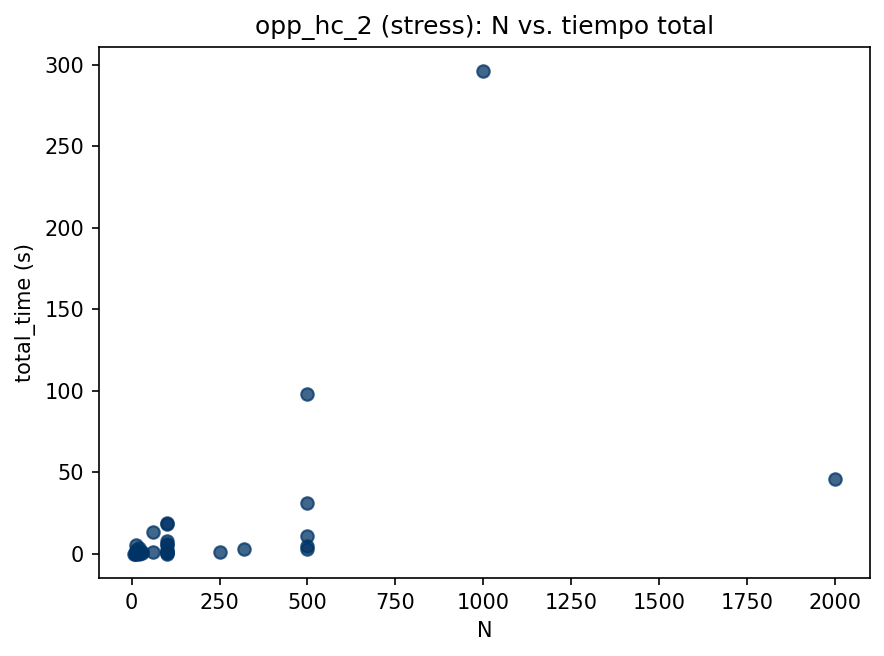
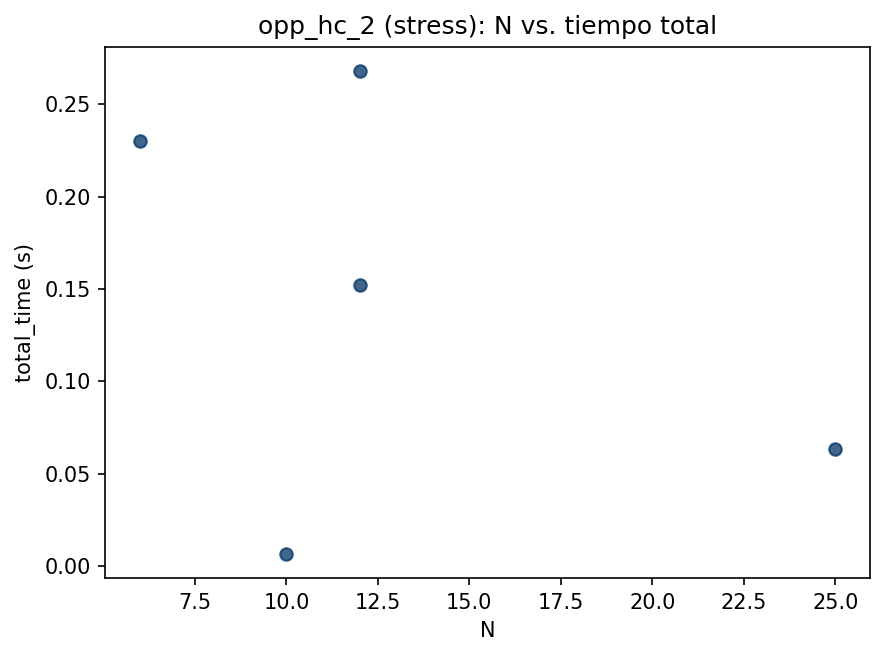
Restore

diff --git a/analysis/config.py b/analysis/config.py
@@ -62,5 +62,23 @@ CORRELATION_INDEPENDENTS = ["N", "V", "B", "C_v", "W_full", "W_ea_ta"]
 # later partial run, or a specific high-density stress run). Keyed by
 # (model_label, scenario) -> exact filename (relative to its output dir).
 LATEST_FILE_OVERRIDES = {
-    ("opp_v3", "stress"): "complete_output_v3_stress_tests.csv"
+    ("opp_v3", "stress"): "complete_output_v3_stress_tests.csv",
+    ("opp_aco", "stress"): "output_opp_aco_stress_tests_20260617_123001.csv",
+    # 2026-08-28: opp_v4's stress test files were renumbered/reshuffled at
+    # some point (the "Rename tests" commit) without a matching full stress
+    # re-run under the new numbering. The chronologically NEWER CSV
+    # (20260825_194316, 3 rows) tests scenario names
+    # (test_25_orders_per_batch_30_batches_25x25, etc.) that don't match ANY
+    # current tests/opp_v4/tests/stress/*.py file -- orphaned data from
+    # before the rename. This OLDER file's 8 test names match the current
+    # suite exactly (test_100_locations, test_infeasible_capacity, ...,
+    # test_10_orders_per_batch) -- pin to it explicitly rather than let
+    # _pick_csv's recency heuristic (correct in general, wrong here) choose
+    # the newer-but-stale one. Still only a partial answer: this file is
+    # itself from 2026-08-18 and hasn't been re-run since (the performance
+    # fix, the algorithm fixes from the 2026-08-27/28 code audit, etc.
+    # postdate it) -- a genuinely fresh, complete opp_v4 stress run is still
+    # pending (several of its 8 tests are known to take the full 25min
+    # timeout each, so budget hours, not minutes, for that run).
+    ("opp_v4", "stress"): "output_opp_v4_stress_tests_20260818_181050.csv",
 }

diff --git a/analysis/output/report.md b/analysis/output/report.md
@@ -9,7 +9,7 @@
 | opp_aco_3 | normal | 12 | 12 | 0 | 0 | 100.0 |
 | opp_aco_3 | stress | 20 | 14 | 1 | 5 | 70.0 |
 | opp_hc_2 | normal | 46 | 46 | 0 | 0 | 100.0 |
-| opp_hc_2 | stress | 43 | 32 | 11 | 0 | 74.4 |
+| opp_hc_2 | stress | 18 | 5 | 0 | 13 | 27.8 |
 | opp_hc_3 | normal | 6 | 6 | 0 | 0 | 100.0 |
 | opp_hc_3 | stress | 20 | 17 | 3 | 0 | 85.0 |
 | opp_v4 | normal | 46 | 45 | 1 | 0 | 97.8 |
@@ -26,7 +26,7 @@
 | opp_aco_3 | normal | 0.025555570920308385 | 0.04387347950663957 | 0.1223242282867431 | 12 |
 | opp_aco_3 | stress | 274.496099284717 | 288.75962323931503 | 1020.2660281658171 | 14 |
 | opp_hc_2 | normal | 0.008851419324460201 | 0.0043273053102638 | 0.0224010944366455 | 46 |
-| opp_hc_2 | stress | 18.320306666195393 | 54.18233231800621 | 296.41067695617676 | 32 |
+| opp_hc_2 | stress | 0.14395718574523922 | 0.10983766583068512 | 0.2681119441986084 | 5 |
 | opp_hc_3 | normal | 0.0038505395253499003 | 0.002514931435436244 | 0.0064420700073242 | 6 |
 | opp_hc_3 | stress | 4.956314185086419 | 6.819183207581754 | 22.079998254776 | 17 |
 | opp_v4 | normal | 2.048522546556261 | 5.831397336622343 | 26.211292028427124 | 45 |
@@ -71,7 +71,7 @@
 | scenario | mean_time_overhead_pct | n_matched | aware_model | baseline_model |
 | --- | --- | --- | --- | --- |
 | normal | -15.574779336779315 | 1 | opp_hc_3 | opp_hc_2 |
-| stress | 0.0463900730684248 | 16 | opp_hc_3 | opp_hc_2 |
+| stress | 883.7697290536222 | 4 | opp_hc_3 | opp_hc_2 |
 | normal | 99.5794968744288 | 1 | opp_aco_3 | opp_aco_2 |
 | stress | 512.7704991022023 | 14 | opp_aco_3 | opp_aco_2 |
 
@@ -83,7 +83,7 @@
 | --- | --- | --- | --- | --- | --- | --- | --- |
 | opp_aco_2 | 0.535 | 0.8314 | 0.4722 | 0.5915 | 0.5276 | -0.3722 | 65 |
 | opp_aco_3 | 0.6342 | 0.3802 | 0.4262 | 0.622 | 0.4216 | -0.1912 | 18 |
-| opp_hc_2 | 0.5505 | 0.7019 | 0.2855 | 0.5819 | 0.2203 | -0.1631 | 78 |
+| opp_hc_2 | 0.2881 | 0.8086 | 0.2826 | 0.0672 | 0.2986 | -0.1571 | 51 |
 | opp_hc_3 | 0.2439 | 0.314 | 0.0174 | 0.5458 | 0.2783 | -0.152 | 20 |
 | opp_v4 | 0.7511 | 0.4413 | 0.915 | -0.0171 | 0.4447 | -0.3873 | 23 |
 | opp_v5 | 0.7871 | 0.4704 | 0.9045 | -0.0459 | 0.4477 | -0.4292 | 22 |
@@ -97,7 +97,7 @@
 | opp_aco_3 | normal | 0.2256 | 0.2256 | 0.9256 | -0.6652 | nan | 0.6652 | 4 |
 | opp_aco_3 | stress | 0.5777 | 0.2352 | 0.2924 | 0.5184 | nan | nan | 14 |
 | opp_hc_2 | normal | 0.5745 | 0.3289 | 0.2616 | 0.0451 | -0.077 | -0.4117 | 46 |
-| opp_hc_2 | stress | 0.5058 | 0.6826 | 0.1746 | 0.5778 | 0.0616 | -0.0616 | 32 |
+| opp_hc_2 | stress | -0.4115 | 0.6254 | -0.2864 | -0.403 | -0.4374 | 0.4374 | 5 |
 | opp_hc_3 | normal | 0.9629 | 0.9629 | nan | 0.9629 | nan | -0.9629 | 3 |
 | opp_hc_3 | stress | 0.1684 | 0.2321 | -0.1067 | 0.4888 | nan | nan | 17 |
 | opp_v4 | normal | 0.843 | 0.485 | 0.918 | -0.0078 | 0.4891 | -0.4207 | 22 |
